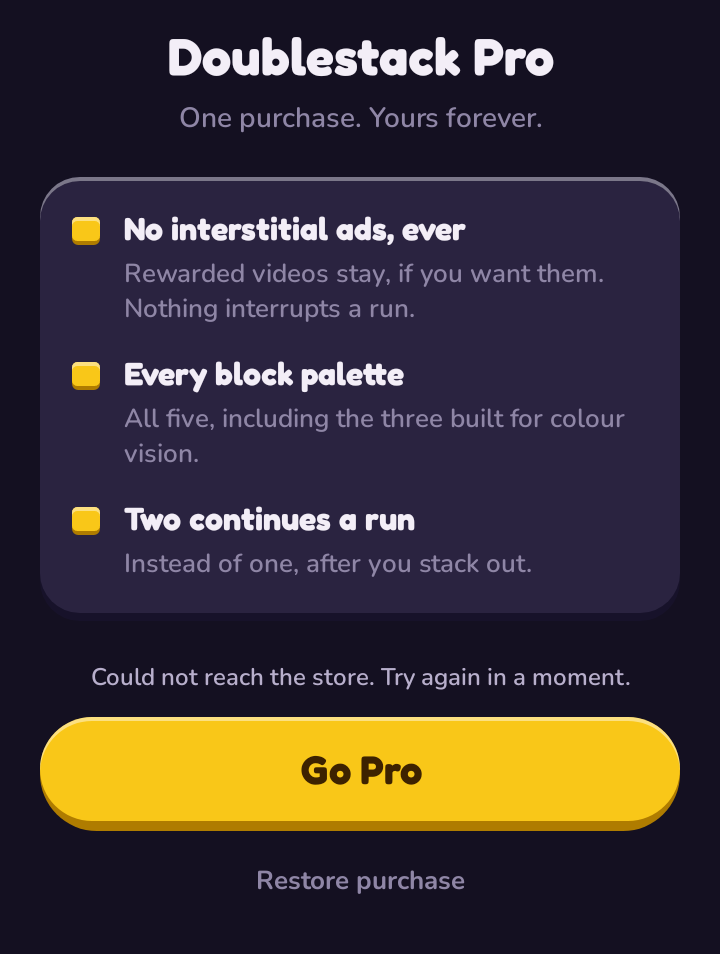
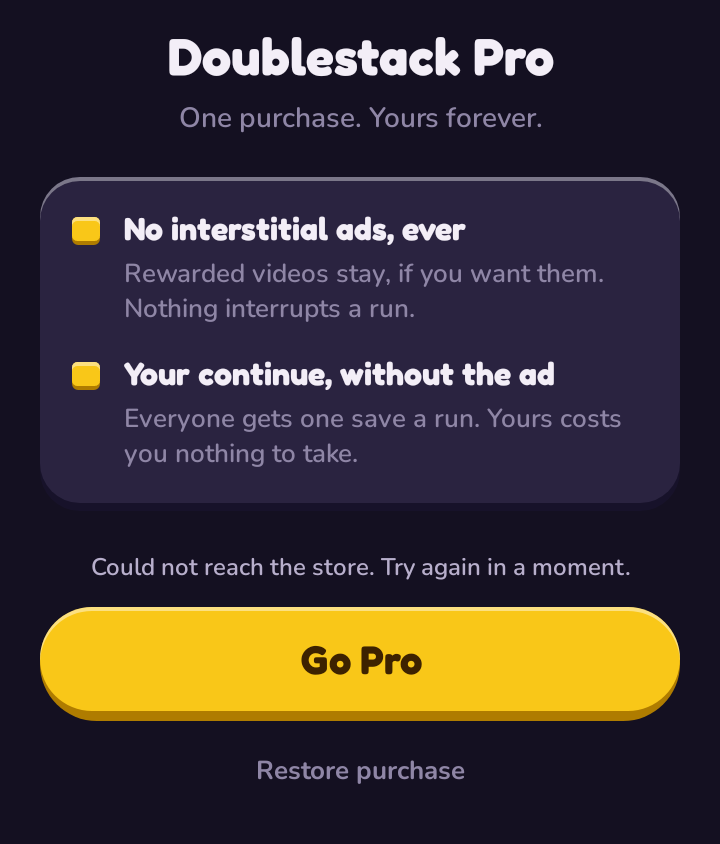
feat(pro): one save a run for everyone, and Pro skips the video
Three changes to the same promise, because the sheet was selling two
things that were not true and one that was.

**The shake dialog worked once per process.** `ShakeHandler` latched
`isShowingDialog` on the first shake and only `onDialogDismissed` cleared
it, which nothing called. The fix is a `DisposableEffect` in the entry
point rather than wiring the callbacks: there are five ways out of that
dialog and only three are callbacks, so the two CTAs, dismiss, system back
and a scrim tap all had to be covered and leaving composition is the one
event they share.

**The palette perk claimed what everybody already had.** All five palettes
shipped to everyone, so the bullet was false. Gating them is worse:
BlockPaletteChoice is Default plus Deuteranopia, Protanopia, Tritanopia
and HighContrast, so every palette a buyer could be charged for is an
accessibility palette, and charging a colour-blind player for a readable
board is not a perk. The line is gone until there are cosmetic palettes to
sell. Two true bullets beat three with a lie in them.

**Continues are now one a run for everyone, and Pro's benefit is that the
one is free.** Was a cap of 2 sold as "two instead of one". Chaining saves
turns a leaderboard score into a measure of patience with ad breaks. The
sheet's copy changes with entitlement too, because "Watch an ad, keep this
run" on a screen where no ad is coming makes the purchase feel inert.

Goldens re-recorded for the paywall and the badge dialog; both inspected
[…]

Changed region(s): [[0.0306, 0.1848, 0.9472, 0.955], [0.2139, 0.0308, 0.7639, 0.154]]

diff --git a/features/game/impl/src/commonTest/kotlin/com/dangerfield/drop2048/features/game/impl/GameScenario.kt b/features/game/impl/src/commonTest/kotlin/com/dangerfield/drop2048/features/game/impl/GameScenario.kt
@@ -8,6 +8,10 @@ import com.dangerfield.drop2048.libraries.ads.AdGate
 import com.dangerfield.drop2048.libraries.ads.AdPlacement
 import com.dangerfield.drop2048.libraries.ads.BannerAds
 import com.dangerfield.drop2048.libraries.ads.InMemoryRunActivity
+import com.dangerfield.drop2048.libraries.billing.Entitlements
+import com.dangerfield.drop2048.libraries.billing.PurchaseOutcome
+import com.dangerfield.drop2048.libraries.billing.RestoreOutcome
+import kotlinx.coroutines.flow.StateFlow
 import com.dangerfield.drop2048.libraries.ads.InterstitialGate
 import com.dangerfield.drop2048.libraries.ads.RewardOutcome
 import com.dangerfield.drop2048.libraries.ads.RunActivity
@@ -89,6 +93,7 @@ internal class GameScenario private constructor(
     val paywall: FakePaywallCoordinator,
     val banners: FakeBannerAds,
     private val continuesPerRun: Int,
+    private val isPro: Boolean,
 ) {
     val cues = mutableListOf<Cue>()
     val effects = mutableListOf<GameEffect>()
@@ -121,6 +126,7 @@ internal class GameScenario private constructor(
             runActivity = runActivity,
             paywall = paywall,
             banners = banners,
+            entitlements = FakeEntitlements(isPro),
             continuesPerRun = RewardedContinuesPerRun(
                 object : AppConfigMap() {
                     override val map: Map<String, *> = mapOf(
@@ -328,6 +334,7 @@ internal class GameScenario private constructor(
             /** Whether `ads.enabled`, `ads.banner.enabled` and not-Pro all hold (D28). */
             banners: FakeBannerAds = FakeBannerAds(),
             /** `ads.rewarded.continuesPerRun`. SPEC 12's hard cap is 2. */
+            isPro: Boolean = false,
             continuesPerRun: Int = 2,
             body: GameScenario.() -> T,
         ): T {
@@ -360,6 +367,7 @@ internal class GameScenario private constructor(
                 paywall = paywall,
                 banners = banners,
                 continuesPerRun = continuesPerRun,
+                isPro = isPro,
             )
             scenario.launch(backgroundScope)
             if (pressPlay && scenario.state.phase == GamePhase.Ready) {
@@ -649,4 +657,19 @@ internal class FakeBannerAds(
     override fun noteFilled() {
         fills++
     }
+}
+
+
+/**
+ * A player who has or has not bought Pro, fixed for the life of the scenario.
+ *
+ * Fixed rather than mutable because the one thing entitlement changes here is
+ * whether the continue costs a video, and that is read once when the offer is
+ * built. A test that needs both answers wants two scenarios, not a flip
+ * mid-run.
+ */
+internal class FakeEntitlements(pro: Boolean) : Entitlements {
+    override val isPro: StateFlow<Boolean> = MutableStateFlow(pro)
+    override suspend fun purchasePro(trigger: String?): PurchaseOutcome = PurchaseOutcome.Unavailable
+    override suspend fun restore(): RestoreOutcome = RestoreOutcome.Unavailable
 }

diff --git a/features/game/impl/src/commonMain/kotlin/com/dangerfield/drop2048/features/game/impl/GameViewModel.kt b/features/game/impl/src/commonMain/kotlin/com/dangerfield/drop2048/features/game/impl/GameViewModel.kt
@@ -23,6 +23,7 @@ import com.dangerfield.drop2048.libraries.ads.BannerAds
 import com.dangerfield.drop2048.libraries.ads.InterstitialGate
 import com.dangerfield.drop2048.libraries.ads.RewardOutcome
 import com.dangerfield.drop2048.libraries.ads.RunActivity
+import com.dangerfield.drop2048.libraries.billing.Entitlements
 import com.dangerfield.drop2048.libraries.billing.PaywallCoordinator
 import com.dangerfield.drop2048.libraries.billing.PaywallTrigger
 import com.dangerfield.drop2048.libraries.core.Catching
@@ -121,6 +122,7 @@ class GameViewModel(
     private val paywall: PaywallCoordinator,
     private val banners: BannerAds,
     private val continuesPerRun: RewardedContinuesPerRun,
+    private val entitlements: Entitlements,
 ) : SEAViewModel<GameUiState, GameEffect, GameAction>(initialStateArg = GameUiState()) {
 
     private val logger = KLog.withTag("Game")
@@ -1249,6 +1251,7 @@ class GameViewModel(
                 // opens nothing is worse than none, and the two rules that
                 // would refuse it are the coordinator's.
                 proOnContinue = paywall.mayOffer(PaywallTrigger.Continue),
+                continueIsFree = entitlements.isPro.value,
             )
         }
         startCountdown()
@@ -1285,6 +1288,18 @@ class GameViewModel(
     private suspend fun GameAction.continueAccept() {
         if (state.continueBusy) return
         countdownJob?.cancel()
+
+        // What Pro buys at this placement, and the whole of it: the same single
+        // save everybody gets, without the video. The cap is deliberately not
+        // raised for Pro — see `RewardedContinuesPerRun` — so this is the only
+        // branch, and there is no rewarded call to note against SPEC 12's
+        // 45-second rule because no ad was shown.
+        if (entitlements.isPro.value) {
+            logger.logEvent("ads.continue_result", "outcome" to "Pro", "continues_used" to continuesUsed)
+            grantContinue()
+            return
+        }
+
         updateState { it.copy(continueBusy = true) }
 
         val outcome = Catching { adGate.showRewarded(AdPlacement.ContinueRun) }
@@ -1973,6 +1988,17 @@ data class GameUiState(
      * `pro.upsell.enabled` off, so the control is absent rather than dead.
      */
     val proOnContinue: Boolean = false,
+
+    /**
+     * Whether taking the save costs a video, which is the one thing Pro changes
+     * at this placement.
+     *
+     * The sheet has to say so before the tap, not after. "Watch an ad, keep this
+     * run" on a screen where no ad is coming is a small lie that makes the
+     * purchase feel like it did nothing, and it is the same class of mistake as
+     * the palette perk that sold what everybody already had.
+     */
+    val continueIsFree: Boolean = false,
 
     /**
      * Whether a banner **may be asked for**: ads on, `ads.banner.enabled` on,

diff --git a/features/game/impl/src/commonMain/kotlin/com/dangerfield/drop2048/features/game/impl/GameScreen.kt b/features/game/impl/src/commonMain/kotlin/com/dangerfield/drop2048/features/game/impl/GameScreen.kt
@@ -86,6 +86,7 @@ import com.dangerfield.drop2048.system.typography.FredokaFontFamily
 import com.dangerfield.drop2048.system.typography.NunitoFontFamily
 import drop2048.libraries.resources.generated.resources.Res
 import drop2048.libraries.resources.generated.resources.continue_body
+import drop2048.libraries.resources.generated.resources.continue_body_pro
 import drop2048.libraries.resources.generated.resources.continue_body_second
 import drop2048.libraries.resources.generated.resources.continue_countdown_description
 import drop2048.libraries.resources.generated.resources.continue_decline
@@ -93,6 +94,7 @@ import drop2048.libraries.resources.generated.resources.continue_from_results
 import drop2048.libraries.resources.generated.resources.continue_pro
 import drop2048.libraries.resources.generated.resources.continue_title
 import drop2048.libraries.resources.generated.resources.continue_watch
+import drop2048.libraries.resources.generated.resources.continue_watch_pro
 import drop2048.libraries.resources.generated.resources.game_best_score
 import drop2048.libraries.resources.generated.resources.game_biggest
 import drop2048.libraries.resources.generated.resources.game_board
@@ -841,12 +843,24 @@ private fun ContinueOverlay(
             OverlayHeadline(stringResource(Res.string.continue_title))
             OverlayBody(
                 stringResource(
-                    if (state.continueAvailable) Res.string.continue_body_second
-                    else Res.string.continue_body,
+                    when {
+                        // Pro first: a Pro player is never offered a second save
+                        // (the cap is one for everybody), so this ordering cannot
+                        // hide the second-offer copy from anyone entitled to it.
+                        state.continueIsFree -> Res.string.continue_body_pro
+                        state.continueAvailable -> Res.string.continue_body_second
+                        else -> Res.string.continue_body
+                    },
                 ),
             )
             GamePrimaryButton(
-                label = stringResource(Res.string.continue_watch),
+                // Never promise an ad that is not coming. Pro's whole benefit at
+                // this placement is that the save is free, and a button still
+                // saying "watch an ad" makes the purchase feel inert.
+                label = stringResource(
+                    if (state.continueIsFree) Res.string.continue_watch_pro
+                    else Res.string.continue_watch,
+                ),
                 onClick = { onAction(GameAction.ContinueAccept) },
             )
             OverlayOption(stringResource(Res.string.continue_decline)) {

diff --git a/features/paywall/impl/src/commonMain/kotlin/com/dangerfield/drop2048/features/paywall/impl/PaywallSheet.kt b/features/paywall/impl/src/commonMain/kotlin/com/dangerfield/drop2048/features/paywall/impl/PaywallSheet.kt
@@ -45,8 +45,6 @@ import drop2048.libraries.resources.generated.resources.paywall_perk_ads
 import drop2048.libraries.resources.generated.resources.paywall_perk_ads_detail
 import drop2048.libraries.resources.generated.resources.paywall_perk_continues
 import drop2048.libraries.resources.generated.resources.paywall_perk_continues_detail
-import drop2048.libraries.resources.generated.resources.paywall_perk_palettes
-import drop2048.libraries.resources.generated.resources.paywall_perk_palettes_detail
 import drop2048.libraries.resources.generated.resources.paywall_restore
 import drop2048.libraries.resources.generated.resources.paywall_subtitle
 import drop2048.libraries.resources.generated.resources.paywall_title
@@ -218,16 +216,28 @@ private fun Buy(state: PaywallState, onAction: (PaywallAction) -> Unit) {
     )
 }
 
+/**
+ * Every line here has to be something a buyer actually gets, and one of them was
+ * not.
+ *
+ * The palettes perk is gone. It claimed "every block palette, all five,
+ * including the three built for colour vision" while all five shipped to
+ * everybody, so it was selling something free. The obvious repair was to gate
+ * them, and that is worse: `BlockPaletteChoice` is Default plus Deuteranopia,
+ * Protanopia, Tritanopia and HighContrast, so **every palette a buyer could be
+ * charged for is an accessibility palette**. Charging a colour-blind player for
+ * a readable board is not a perk.
+ *
+ * If Pro is to sell palettes, the palettes have to be drawn first, and they have
+ * to be cosmetic. Until then the sheet says two true things instead of three
+ * things where one is a lie.
+ */
 @Composable
 private fun Perks() {
     GamePanel(spacing = Dimension.D600) {
         Perk(
             title = stringResource(Res.string.paywall_perk_ads),
             detail = stringResource(Res.string.paywall_perk_ads_detail),
-        )
-        Perk(
-            title = stringResource(Res.string.paywall_perk_palettes),
-            detail = stringResource(Res.string.paywall_perk_palettes_detail),
         )
         Perk(
             title = stringResource(Res.string.paywall_perk_continues),

diff --git a/apps/compose/src/commonMain/kotlin/com/dangerfield/drop2048/ShakeDialogEntryPoint.kt b/apps/compose/src/commonMain/kotlin/com/dangerfield/drop2048/ShakeDialogEntryPoint.kt
@@ -1,5 +1,6 @@
 package com.dangerfield.drop2048
 
+import androidx.compose.runtime.DisposableEffect
 import androidx.navigation.NavGraphBuilder
 import com.dangerfield.drop2048.features.profile.BugReportRoute
 import com.dangerfield.drop2048.libraries.core.BuildInfo
@@ -20,11 +21,27 @@ import software.amazon.lastmile.kotlin.inject.anvil.SingleIn
 @Inject
 class ShakeDialogEntryPoint(
     private val networkInspector: NetworkInspector,
+    private val shakeHandler: ShakeHandler,
 ) : FeatureEntryPoint {
 
     override fun NavGraphBuilder.buildNavGraph(router: Router) {
         dialog<ShakeDialogRoute> { backStackEntry, dialogState ->
             val route = backStackEntry.toRouteOrNull<ShakeDialogRoute>()
+
+            // Releases the handler's "a dialog is already up" latch.
+            //
+            // On dispose rather than in the callbacks below, because there are
+            // five ways out of here and only three of them are callbacks: the
+            // two CTAs, dismiss, the system back gesture, and a tap on the
+            // scrim. Wiring the three would have left the other two latched,
+            // which is a subtler version of the bug this fixes — the shake
+            // worked exactly once per process because nothing called
+            // `onDialogDismissed` at all.
+            //
+            // Leaving composition is the one event every route out shares.
+            DisposableEffect(Unit) {
+                onDispose { shakeHandler.onDialogDismissed() }
+            }
 
             ShakeDialog(
                 state = dialogState,

diff --git a/libraries/gameconfig/src/commonMain/kotlin/com/dangerfield/drop2048/libraries/gameconfig/MonetizationConfigValues.kt b/libraries/gameconfig/src/commonMain/kotlin/com/dangerfield/drop2048/libraries/gameconfig/MonetizationConfigValues.kt
@@ -113,15 +113,26 @@ class BannerEnabled(appConfigMap: AppConfigMap) : FlagConfigValue(appConfigMap) 
     override val default = true
 }
 
-/** SPEC 12's Continue placement: 1 free per run, a 2nd at higher friction, hard cap 2. */
+/**
+ * One save per run, for everybody.
+ *
+ * Was 2, which SPEC 12 spent as "1 free, a 2nd at higher friction". The owner's
+ * ruling of 2026-09-28 replaces that: a run gets exactly one continue, and what
+ * Pro buys is not *more* of them but not having to watch a video for the one
+ * everybody gets.
+ *
+ * The cap is the point rather than the price. Chaining saves turns a leaderboard
+ * score into a measure of patience with ad breaks, and the board this game is
+ * about stops being the thing being scored.
+ */
 @Inject
 @SingleIn(AppScope::class)
 @ContributesBinding(AppScope::class, boundType = QaConfigValue::class, multibinding = true)
 class RewardedContinuesPerRun(appConfigMap: AppConfigMap) : IntConfigValue(appConfigMap) {
     override val name = "Rewarded cap: continues per run"
-    override val description = "Hard cap on rewarded continues in one run. SPEC 12: 2."
+    override val description = "Hard cap on continues in one run. One save per run, Pro or not."
     override val path = "ads.rewarded.continuesPerRun"
-    override val default = 2
+    override val default = 1
 }
 
 @Inject

diff --git a/apps/compose/src/commonMain/kotlin/com/dangerfield/drop2048/ShakeHandler.kt b/apps/compose/src/commonMain/kotlin/com/dangerfield/drop2048/ShakeHandler.kt
@@ -22,6 +22,16 @@ class ShakeHandler(
     private val router: Router,
 ) {
     private val scope = CoroutineScope(SupervisorJob() + Dispatchers.Main)
+
+    /**
+     * Suppresses a second dialog while one is up, and **is only correct because
+     * `ShakeDialogEntryPoint` clears it when the dialog leaves composition.**
+     *
+     * That is a real coupling, not a detail: this latched to true on the first
+     * shake and nothing ever called [onDialogDismissed], so the gesture worked
+     * exactly once per process. If the shake stops working after one use again,
+     * this flag is the first place to look.
+     */
     private var isShowingDialog = false
     // Process-local flavor counter for the shake easter-egg copy.
     private var shakeCount = 0

diff --git a/features/game/impl/src/commonTest/kotlin/com/dangerfield/drop2048/features/game/impl/RemoteConfigRunBoundaryTest.kt b/features/game/impl/src/commonTest/kotlin/com/dangerfield/drop2048/features/game/impl/RemoteConfigRunBoundaryTest.kt
@@ -135,6 +135,7 @@ private fun startedRun(config: AppConfigMap): GameViewModel {
         runActivity = InMemoryRunActivity(),
         paywall = FakePaywallCoordinator(),
         banners = FakeBannerAds(),
+        entitlements = FakeEntitlements(pro = false),
         continuesPerRun = RewardedContinuesPerRun(config),
     )
     if (viewModel.state.phase == GamePhase.Ready) viewModel.takeAction(GameAction.Start)
